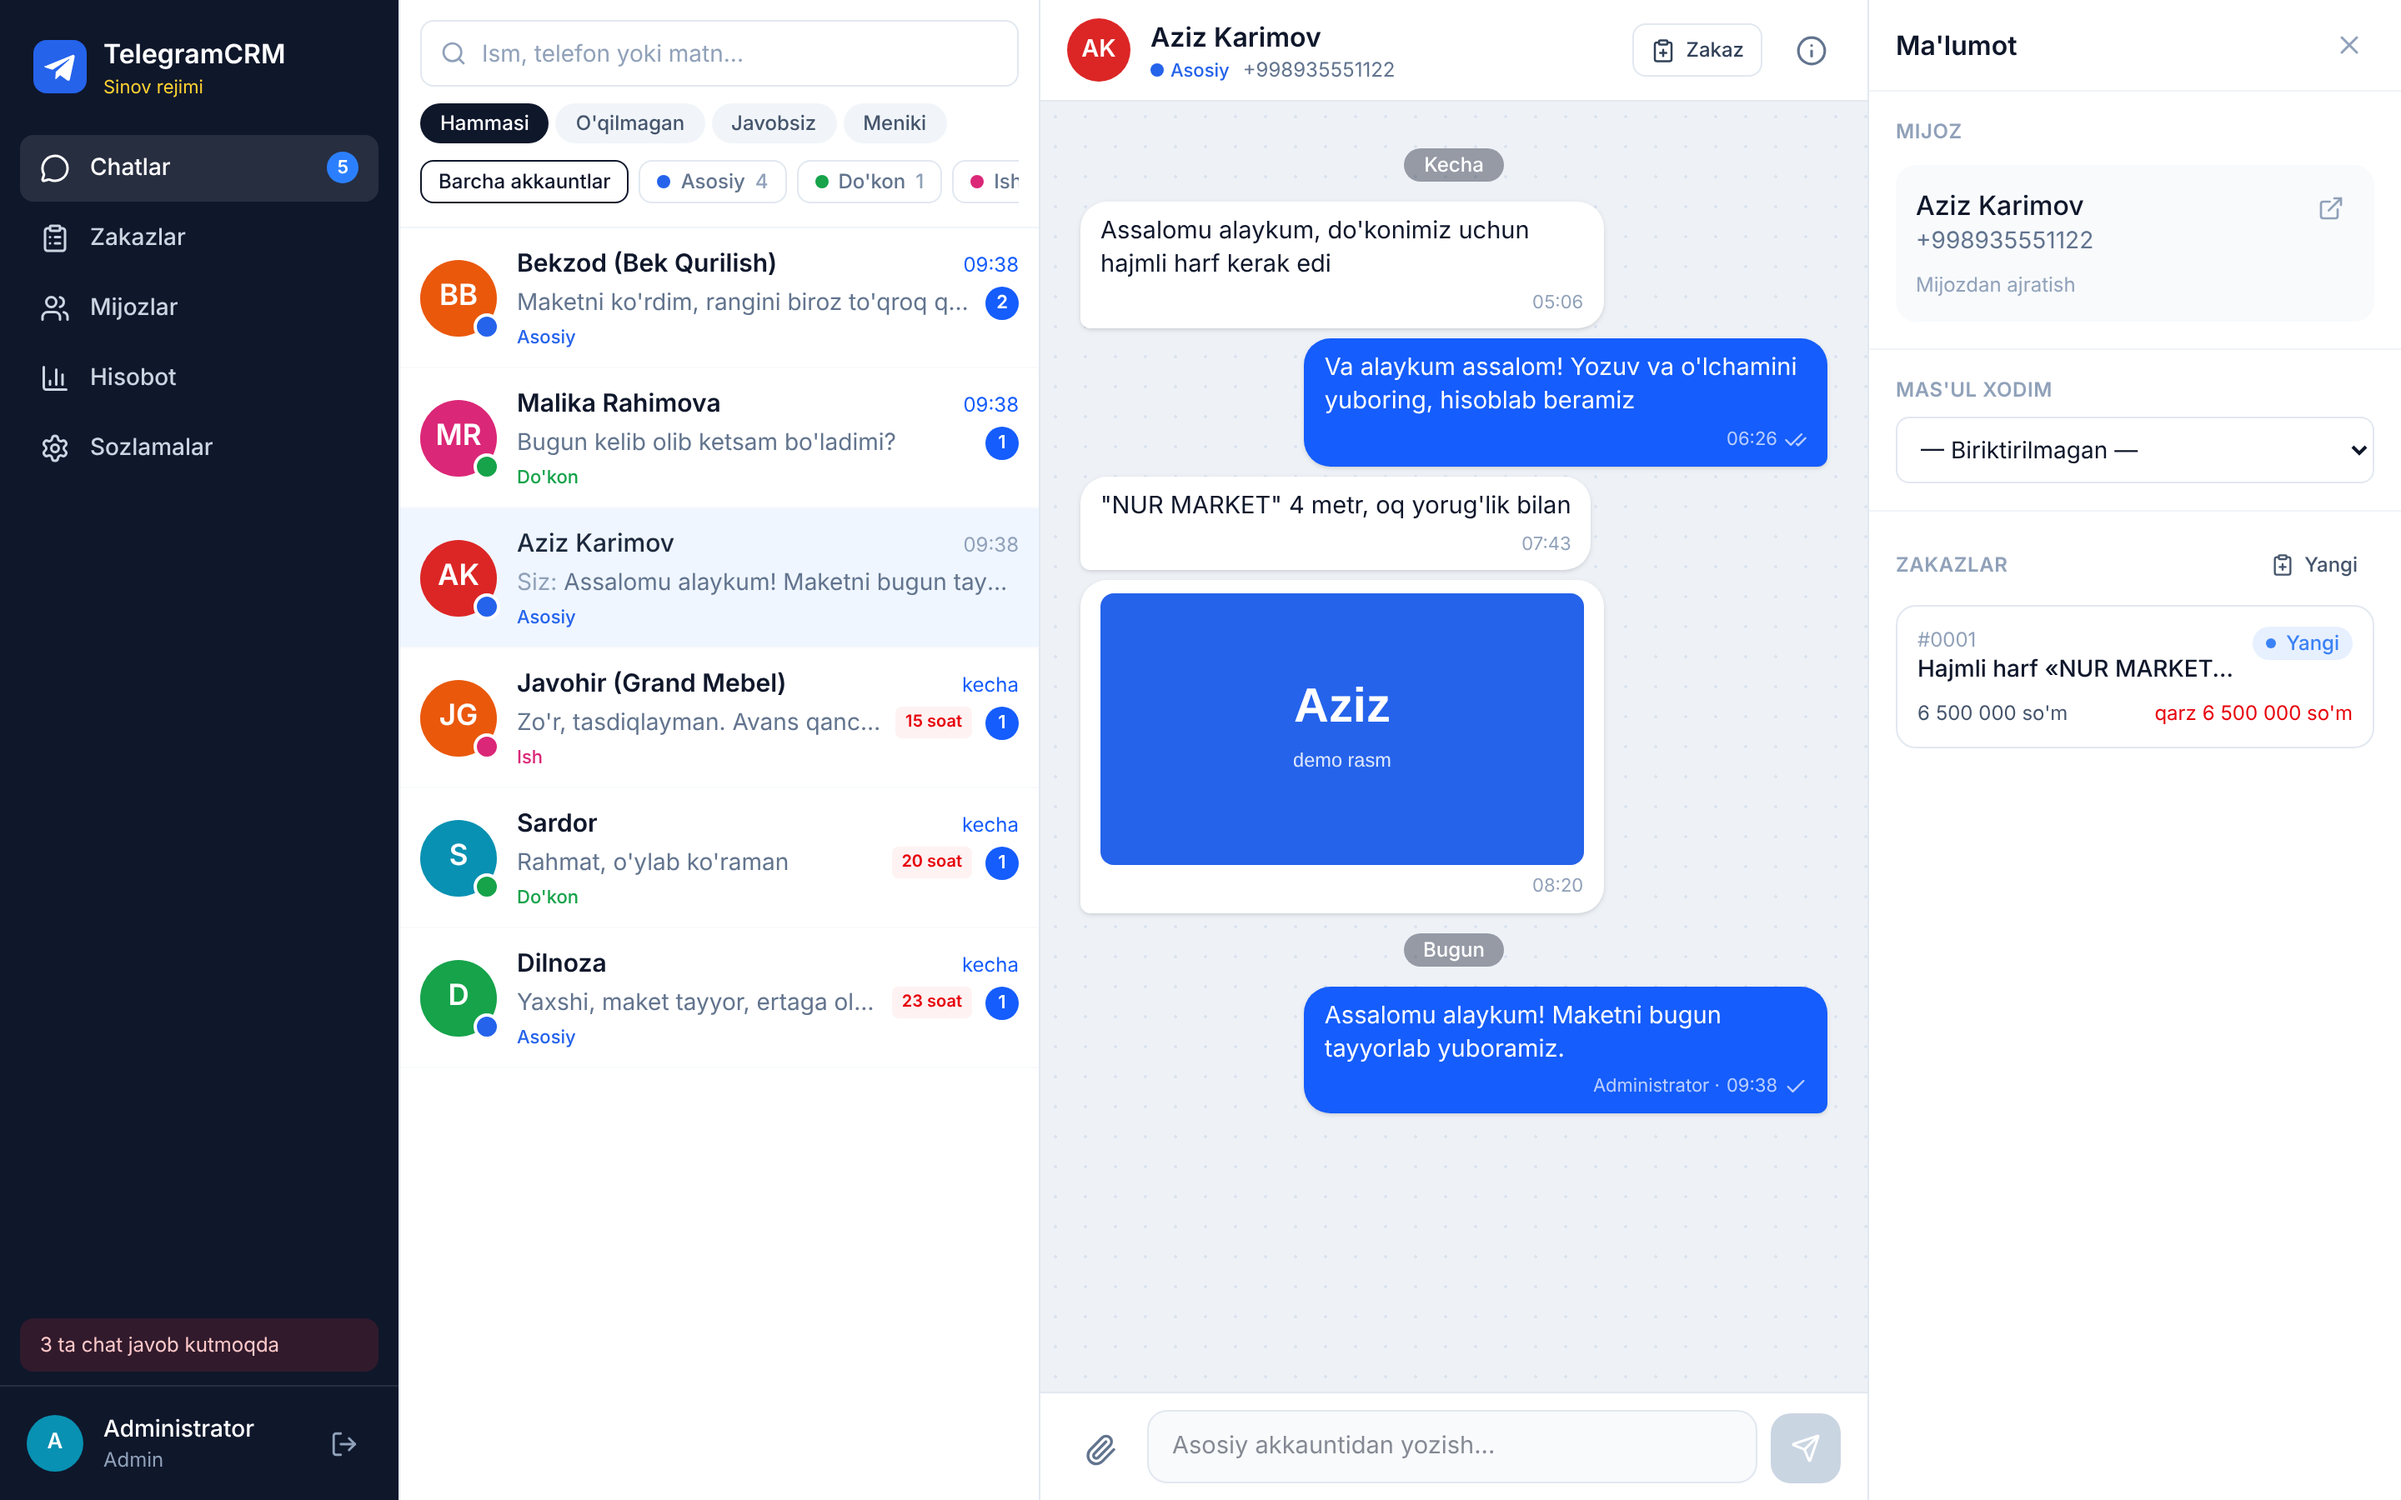
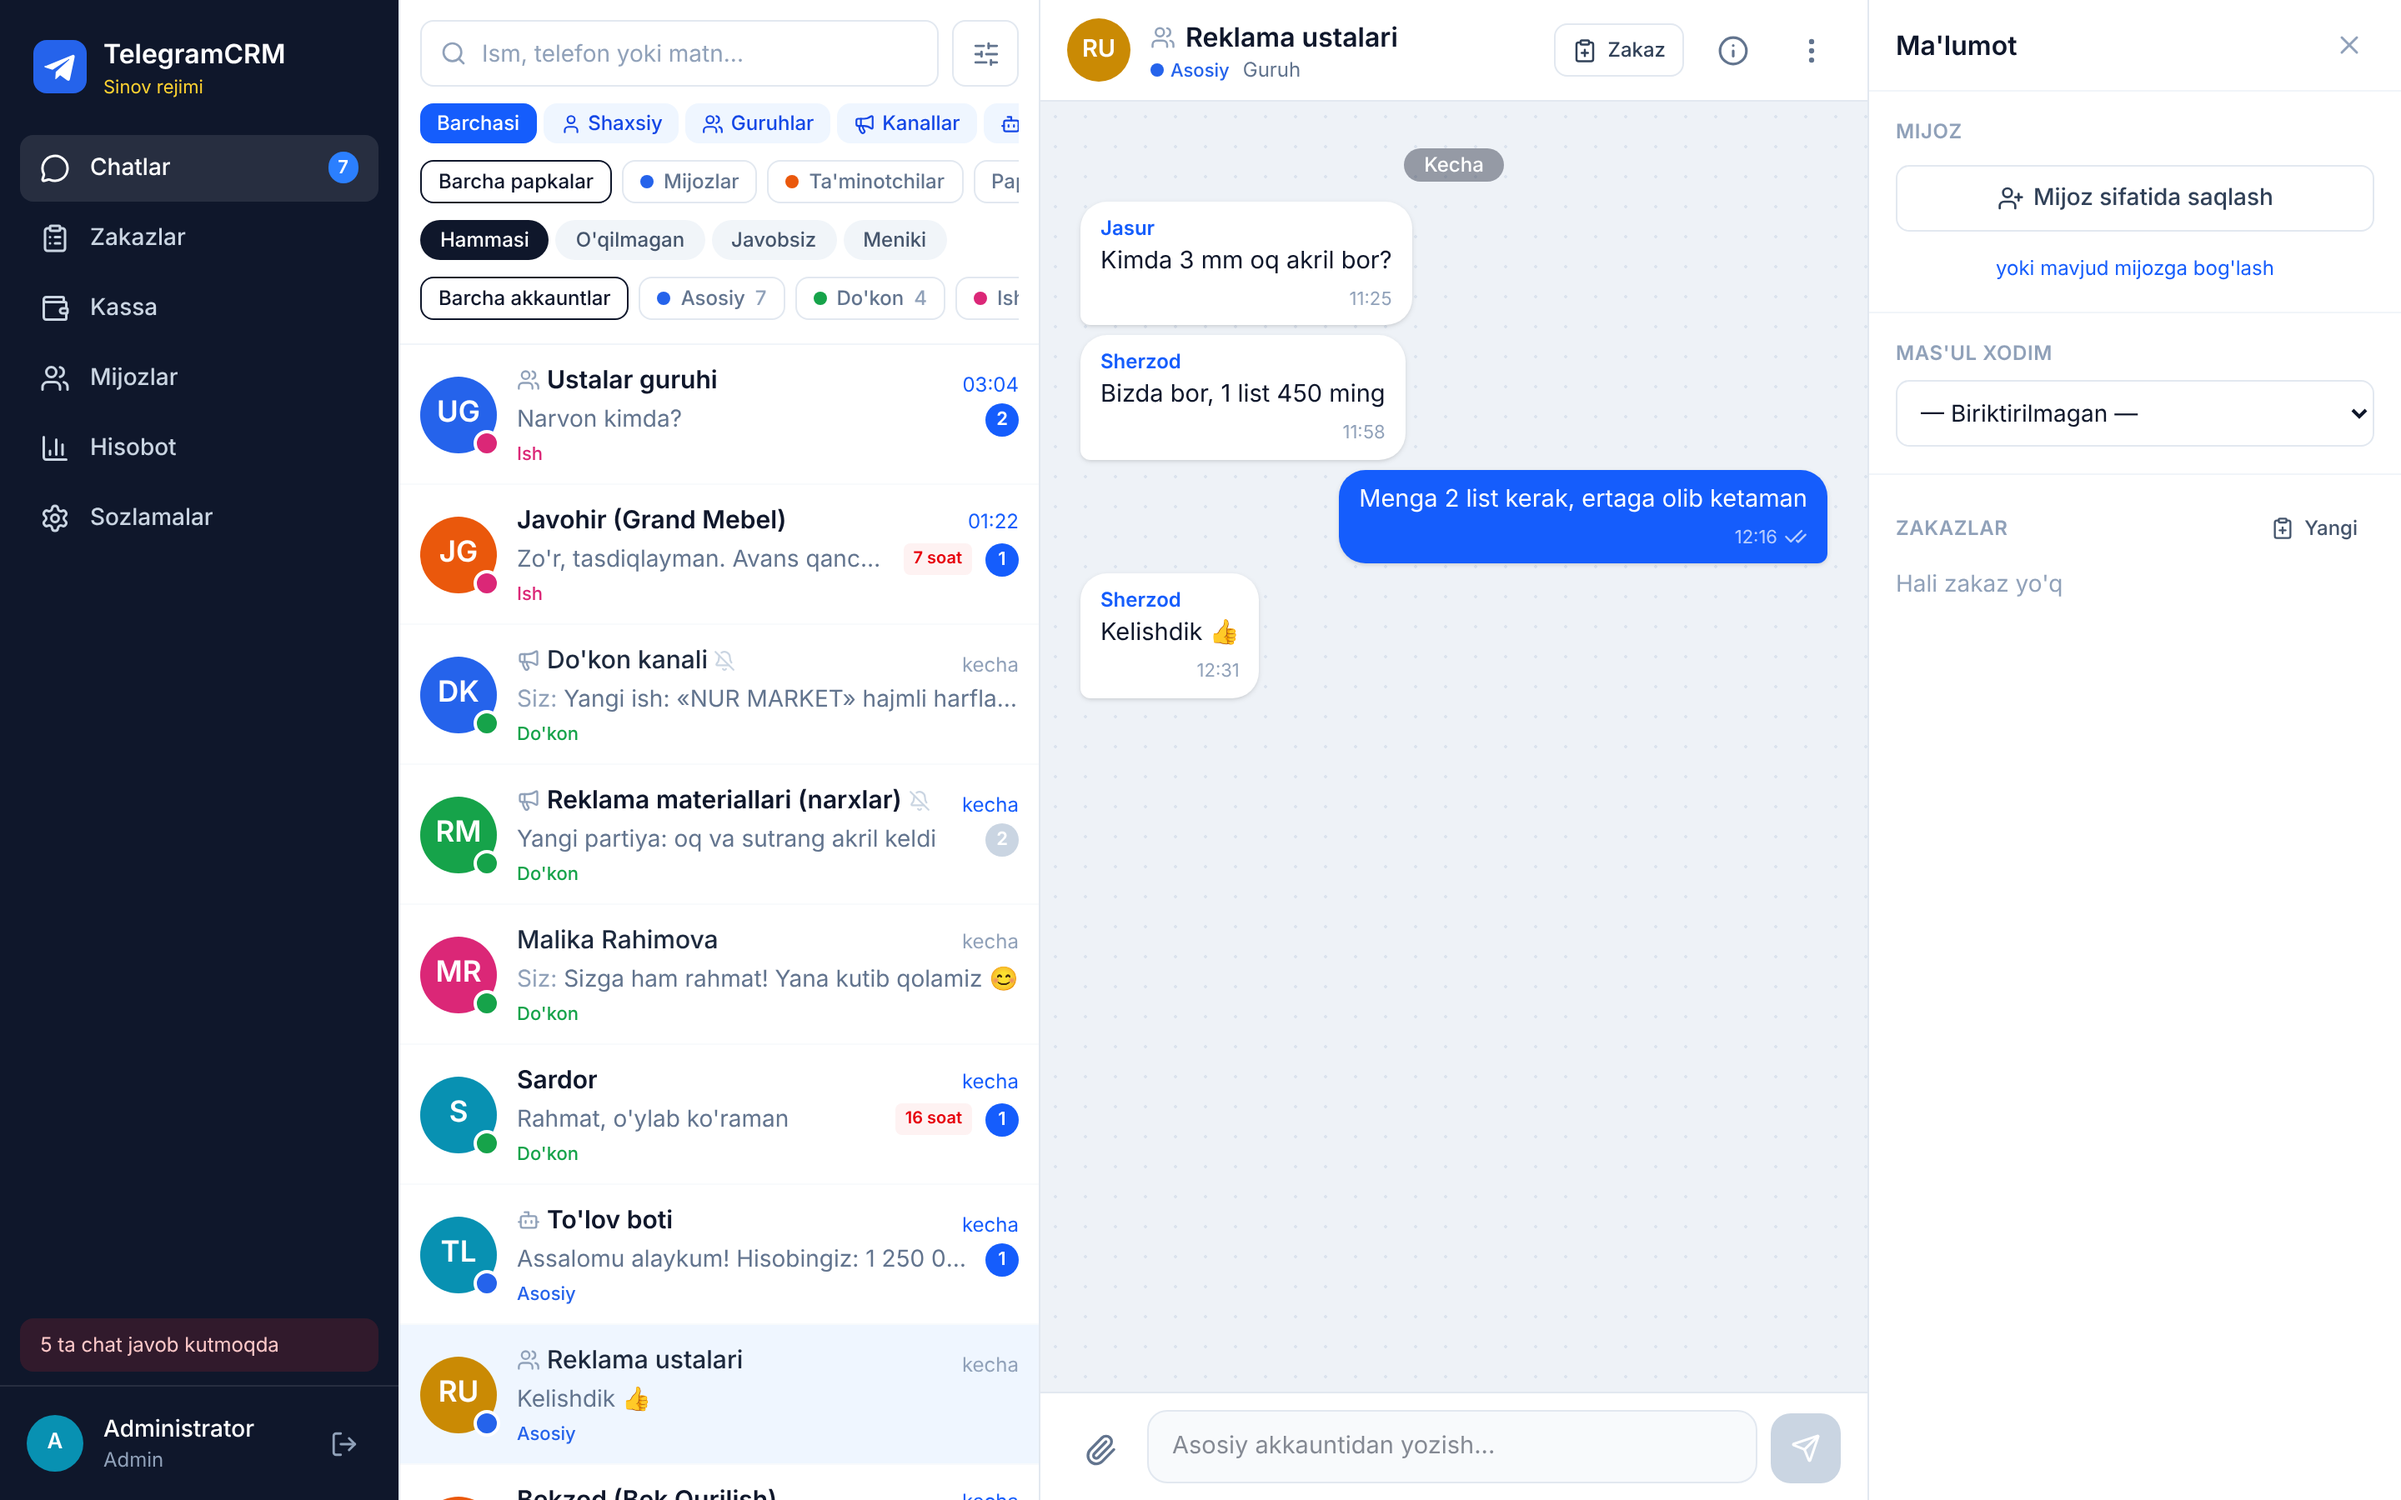
TelegramCRM: document chat selection, cash book, bot entries and Mini App
- README (Uzbek): new features, first-time setup steps for choosing
  chats and the opening cash balance, cash book and debt book guide,
  bot entry examples and commands, Mini App via PUBLIC_URL
- .env.example: PUBLIC_URL
- Updated screenshots (chats, Kassa)

Claude-Session: https://claude.ai/code/session_01Ppemskg8kxd4XzWsKLh1NS

diff --git a/TelegramCRM/README.md b/TelegramCRM/README.md
@@ -2,11 +2,13 @@
 
 Bir nechta Telegram akkauntni **bitta saytda** birlashtiradigan va ishlarni tizimlashtiradigan dastur.
 
-- **Yagona chat oynasi** — barcha akkauntlarga kelgan xabarlar bitta ro'yxatda. Har bir chatda u qaysi akkauntga kelgani rangli belgi bilan ko'rsatiladi. Javobni shu yerdan matn, rasm yoki fayl qilib yozasiz. Filtrlar: o'qilmagan, javobsiz, menga biriktirilgan, akkaunt bo'yicha, qidiruv.
+- **Yagona chat oynasi** — 5–6 akkauntning shaxsiy chatlari, **guruhlari, kanallari va botlari** bitta ro'yxatda. Har bir chatda u qaysi akkauntga tegishli ekani rangli belgi bilan ko'rsatiladi. Javobni shu yerdan matn, rasm yoki fayl qilib yozasiz, botlarning tugmalarini bosasiz. Filtrlar: tur (Shaxsiy / Guruhlar / Kanallar / Botlar), papka, akkaunt, o'qilmagan, javobsiz, menga biriktirilgan, qidiruv.
+- **Chatlarni o'zingiz tanlaysiz** — har bir akkauntdagi barcha chat, guruh, kanal va botlar ro'yxatidan keraklilarini belgilaysiz, qolgani yashirin turadi. O'z **papkalaringiz** («Mijozlar», «Ta'minotchilar»...) bor, keraksiz shovqinli guruhlarni **ovozsiz** qilish mumkin.
 - **Zakazlar doskasi** — xabardan bir tugma bilan zakaz ochiladi, xabardagi rasm va fayllar zakazga o'tadi. Zakazlar holat ustunlarida turadi (Yangi → Dizayn → … → Topshirildi) va sichqoncha bilan suriladi. Har bir zakazda narx, to'lovlar, qarz, muddat, mas'ul xodim, fayllar, izohlar va o'zgarishlar tarixi saqlanadi. Maketni zakaz ichidan mijozga Telegram orqali yuborish mumkin.
+- **Kassa (hisob-kitob)** — kirim va chiqimni qo'lda yozasiz (toifalar: material, ijara, oylik...), naqd va karta qoldig'i, davr bo'yicha foyda doim ko'rinib turadi. Zakaz to'lovlari kassaga avtomatik tushadi. **Qarz daftari**: kim sizdan qarz, siz kimga qarzsiz, qancha qaytarildi. Hammasini **Excel**ga yuklab olish mumkin.
 - **Mijozlar bazasi** — mijoz qaysi akkauntlarga yozgan bo'lsa ham, uning hamma chatlari, zakazlari, jami summasi va qarzi bitta kartada. Bir odam uchun ikki karta ochilib qolsa, ularni birlashtirish mumkin.
-- **Hisobot** — tanlangan davr bo'yicha tushum, zakazlar, o'rtacha chek, qarzdorlik, muddati o'tganlar. Kunlik grafik, to'lov turlari, eng yaxshi mijozlar, akkauntlar va xodimlar kesimi.
-- **Eslatmalar (Telegram bot)** — javobsiz qolgan chatlar, ertaga va bugun muddati tugaydigan hamda muddati o'tgan zakazlar, xodimga yangi zakaz biriktirilgani haqida xabar beradi. Adminlarga har kuni qisqa hisobot yuboradi.
+- **Hisobot** — tanlangan davr bo'yicha kirim, chiqim, foyda, zakazlar, o'rtacha chek, qarzdorlik. Kirim-chiqim grafigi, to'lov turlari, eng yaxshi mijozlar, akkauntlar va xodimlar kesimi.
+- **Telegram bot** — eslatmalar (javobsiz chatlar, muddatlar, yangi zakaz, har kungi hisobot), botga `+500000 avans` / `-80000 material` yozib **kassaga kiritish**, `/balans` kabi buyruqlar. Saytni **bot ichida ochish** ham mumkin (Mini App).
 - **Xodimlar va ruxsatlar** — har bir xodimning o'z logini bor. Har kim faqat o'ziga ruxsat berilgan akkauntlarni ko'radi.
 - Kompyuterda ham, telefonda ham ishlaydi. Yangi xabarlar sahifani yangilamasdan, darhol ko'rinadi.
 
@@ -14,12 +16,14 @@ Bir nechta Telegram akkauntni **bitta saytda** birlashtiradigan va ishlarni tizi
 
 ![Zakazlar doskasi](docs/zakazlar.png)
 
+![Kassa](docs/kassa.png)
+
 ![Hisobot](docs/hisobot.png)
 
 | Rol | Nima qila oladi |
 |---|---|
-| Admin | Hammasi: akkauntlarni ulash, xodimlar, holatlar, hisobot, sozlamalar |
-| Menejer | Ruxsat berilgan akkauntlar chatlari, zakazlar, mijozlar, to'lovlar |
+| Admin | Hammasi: akkauntlarni ulash, xodimlar, holatlar, kassa, hisobot, sozlamalar |
+| Menejer | Ruxsat berilgan akkauntlar chatlari, chatlarni tanlash va papkalar, zakazlar, mijozlar, kassa (o'zi yozgan yozuvni o'zgartiradi) |
 | Xodim | Faqat o'ziga biriktirilgan zakazlar: holatni o'zgartirish, izoh, fayl. Ruxsat berilsa, akkaunt chatlari ham |
 
 ## Qanday ishlaydi
@@ -33,7 +37,8 @@ telefon raqam, kod va kerak bo'lsa ikki bosqichli parol bilan ulanadi.
 - Telegram'ning kirish kodlari keladigan xizmat chati (777000) va «Saqlangan xabarlar» saytda **ko'rsatilmaydi**, shuning uchun xodimlar kodlarni ko'ra olmaydi.
 - Akkaunt ulanganda Telegram «yangi qurilmadan kirildi» deb xabar yuboradi. Bu odatiy hol. Ulanishni istalgan vaqt telefondan uzish mumkin: Sozlamalar → Qurilmalar → TelegramCRM.
 - Saytda hammaga birdan xabar tarqatish (rassilka) funksiyasi **yo'q** va qo'shilmaydi, chunki bunday tarqatish uchun Telegram akkauntlarni bloklaydi.
-- Odatiy holatda faqat shaxsiy chatlar ko'rinadi. Guruhlarni akkaunt sozlamasida yoqish mumkin. Kanallar va botlar ko'rsatilmaydi.
+- Shaxsiy chatlar, guruhlar, kanallar va botlar ro'yxati saytga olinadi, lekin **xabarlari faqat siz tanlagan (ko'rinadigan) chatlar uchun** yuklanadi. Yashirin chatlarning xabarlari serverga saqlanmaydi.
+- Siz admin bo'lmagan kanallarga yozib bo'lmaydi — ular faqat o'qish uchun ko'rinadi.
 
 ## Tayyorgarlik (bir marta)
 
@@ -72,7 +77,8 @@ Maxfiy kalit yarating va chiqqan satrni `.env` dagi `SECRET_KEY=` ga qo'ying:
 openssl rand -hex 32
 ```
 
-`.env` faylini to'ldiring: `ADMIN_PASSWORD`, `TG_API_ID`, `TG_API_HASH`, `BOT_TOKEN`, `DOMAIN`.
+`.env` faylini to'ldiring: `ADMIN_PASSWORD`, `TG_API_ID`, `TG_API_HASH`, `BOT_TOKEN`, `DOMAIN` va
+saytni bot ichida ochish uchun `PUBLIC_URL` (masalan `https://crm.sizning-domeningiz.uz`).
 
 ```bash
 nano .env
@@ -88,11 +94,47 @@ Bir-ikki daqiqadan keyin brauzerda `https://sizning-domeningiz` manzilini oching
 
 ### Birinchi sozlash
 
-1. **Sozlamalar → Telegram akkauntlar → Akkaunt qo'shish.** Telefon raqamni kiriting, keyin shu akkauntning Telegram ilovasiga kelgan kodni yozing. Har bir akkauntga nom va rang bering.
-2. **Sozlamalar → Xodimlar.** Har bir xodimga login yarating va qaysi akkauntlarni ko'rishini belgilang.
-3. **Sozlamalar → Zakaz holatlari.** Ustunlarni o'z ish jarayoningizga moslang.
-4. **Sozlamalar → Profil → Botni ulash.** Har bir xodim o'zi bosadi, shunda eslatmalar unga keladi.
-5. **Sozlamalar → Eslatmalar.** Kunlik hisobot vaqti va javobsiz chat uchun daqiqa chegarasini sozlang.
+1. **Sozlamalar → Telegram akkauntlar → Akkaunt qo'shish.** Telefon raqamni kiriting, keyin shu akkauntning Telegram ilovasiga kelgan kodni yozing. Har bir akkauntga nom va rang bering. Shu yerda «yangi chatlar avtomatik ko'rinsin» belgilari bor: odatda faqat shaxsiy chatlar avtomatik ko'rinadi, guruh, kanal va botlarni o'zingiz tanlaysiz.
+2. **Sozlamalar → Chatlarni tanlash.** Kerakli guruh, kanal va botlarni «Ko'rinadi» qiling, papkalar oching va chatlarni ularga joylang. Ko'pini birdan belgilab, bir tugma bilan ko'rsatish yoki yashirish mumkin.
+3. **Sozlamalar → Xodimlar.** Har bir xodimga login yarating va qaysi akkauntlarni ko'rishini belgilang.
+4. **Sozlamalar → Zakaz holatlari.** Ustunlarni o'z ish jarayoningizga moslang.
+5. **Sozlamalar → Profil → Botni ulash.** Har bir xodim o'zi bosadi, shunda eslatmalar unga keladi va (admin/menejer bo'lsa) botdan kassaga yoza oladi.
+6. **Sozlamalar → Eslatmalar.** Kunlik hisobot vaqti va javobsiz chat uchun daqiqa chegarasini sozlang.
+7. **Kassa → Kirim-chiqim.** Birinchi yozuv sifatida hozirgi naqd va kartadagi pulni «Boshlang'ich qoldiq» toifasi bilan kirim qiling.
+
+## Kassa va qarz daftari
+
+- **Kirim / Chiqim / O'tkazma.** O'tkazma — naqd puldan kartaga (yoki aksincha) o'tkazish; u foydaga ta'sir qilmaydi, faqat qoldiqlarni o'zgartiradi.
+- Zakazga kiritilgan to'lov kassada «Zakaz to'lovi» bo'lib ko'rinadi. Kassada yozuv qo'shganda «Zakaz №» ni yozsangiz, u shu zakazning to'lovi hisoblanadi.
+- «Boshlang'ich qoldiq» foyda hisobiga kirmaydi, faqat kassa qoldig'iga qo'shiladi.
+- **Qarz daftari:** «Menga qarz» — kimdir sizga qaytarishi kerak; «Men qarzman» — siz to'lashingiz kerak. Pul hozir berilgan/olingan bo'lsa, belgilab qo'ysangiz kassaga ham yoziladi. «Qaytardi» / «To'ladik» tugmasi qoldiqni kamaytiradi, to'liq to'langanda qarz yopiladi. To'liq to'lanmagan zakazlar ham shu yerda avtomatik ko'rinadi.
+- **Excel:** Kassa sahifasidagi tugma tanlangan davr bo'yicha «Kirim-chiqim», «Toifalar bo'yicha» va «Qarz daftari» varaqlari bilan fayl beradi.
+- Kassani admin va menejerlar ko'radi. Menejer faqat o'zi kiritgan yozuvni o'zgartira yoki o'chira oladi.
+
+## Bot orqali kirim-chiqim
+
+Botga bog'langan admin va menejerlar botga shunday yozadi:
+
+| Yozasiz | Natija |
+|---|---|
+| `+500000 Aziz avans` | Kirim 500 000, toifa «Avans», naqd |
+| `-80 ming bo'yoq` | Chiqim 80 000, toifa «Material» |
+| `-1 200 000 ijara karta` | Chiqim 1 200 000, toifa «Ijara», karta |
+| `+1.5mln click #12` | 12-zakazga 1 500 000 to'lov, karta |
+
+Summa `500000`, `500 000`, `80k`, `80 ming`, `1.5mln` ko'rinishida bo'lishi mumkin. Matnda «karta, plastik,
+click, payme» bo'lsa karta, aks holda naqd hisoblanadi. Javob xabaridagi tugmalar bilan toifani tanlash,
+naqd/kartani almashtirish yoki yozuvni bekor qilish mumkin.
+
+Buyruqlar: `/balans` — kassa qoldig'i, `/bugun` — bugungi kirim-chiqim, `/oy` — shu oy natijasi,
+`/qarzlar` — ochiq qarzlar, `/yordam` — qo'llanma.
+
+## Saytni Telegram ichida ochish (Mini App)
+
+`.env` da `PUBLIC_URL=https://sizning-domeningiz` yozilgan bo'lsa (HTTPS shart), botning pastki chap
+burchagida «CRM» tugmasi paydo bo'ladi. U butun saytni Telegram ichida ochadi. Botni ulagan xodim login va
+parolsiz avtomatik kiradi. Telefon va kompyuterdagi Telegram ilovasida ishlaydi; brauzerdagi Telegram Web'da
+kirish saqlanmasligi mumkin, u holda saytni oddiy brauzerda oching.
 
 ## Kundalik ishlar
 
@@ -124,6 +166,7 @@ Barcha ma'lumotlar (baza, fayllar, sessiyalar) `crm-data` nomli Docker hajmida s
 
 `.env` da `TG_FAKE=1` qilsangiz, sayt Telegram'ga ulanmaydi va demo akkauntlar, chatlar bilan ishlaydi.
 Har 45 soniyada «mijoz»dan yangi xabar keladi. Yangi akkaunt qo'shishda kod `12345` bo'ladi.
+Demo guruh, kanal, tugmali bot va namunaviy kassa yozuvlari ham bor (kassa namunasisiz: `DEMO_FINANCE=0`).
 Bu rejim saytni ko'rib chiqish va xodimlarni o'rgatish uchun.
 
 ## Dasturchilar uchun
@@ -135,7 +178,8 @@ TelegramCRM/
     app/telegram/fake.py      sinov rejimi
     app/telegram/store.py     xabar va chatlarni bazaga yozish (ikkala rejim uchun umumiy)
     app/routers/              REST API va /ws (WebSocket)
-    app/notify/               eslatma boti va fon vazifalari (eslatmalar, zaxira nusxa)
+    app/finance.py            kassa mantig'i (qoldiq, zakaz to'lovlari, qarzlar)
+    app/notify/               bot: eslatmalar, kassaga yozish (finance_bot.py), fon vazifalari, zaxira nusxa
   frontend/     React + Vite + TypeScript + Tailwind
   Dockerfile, docker-compose.yml, Caddyfile
 ```
